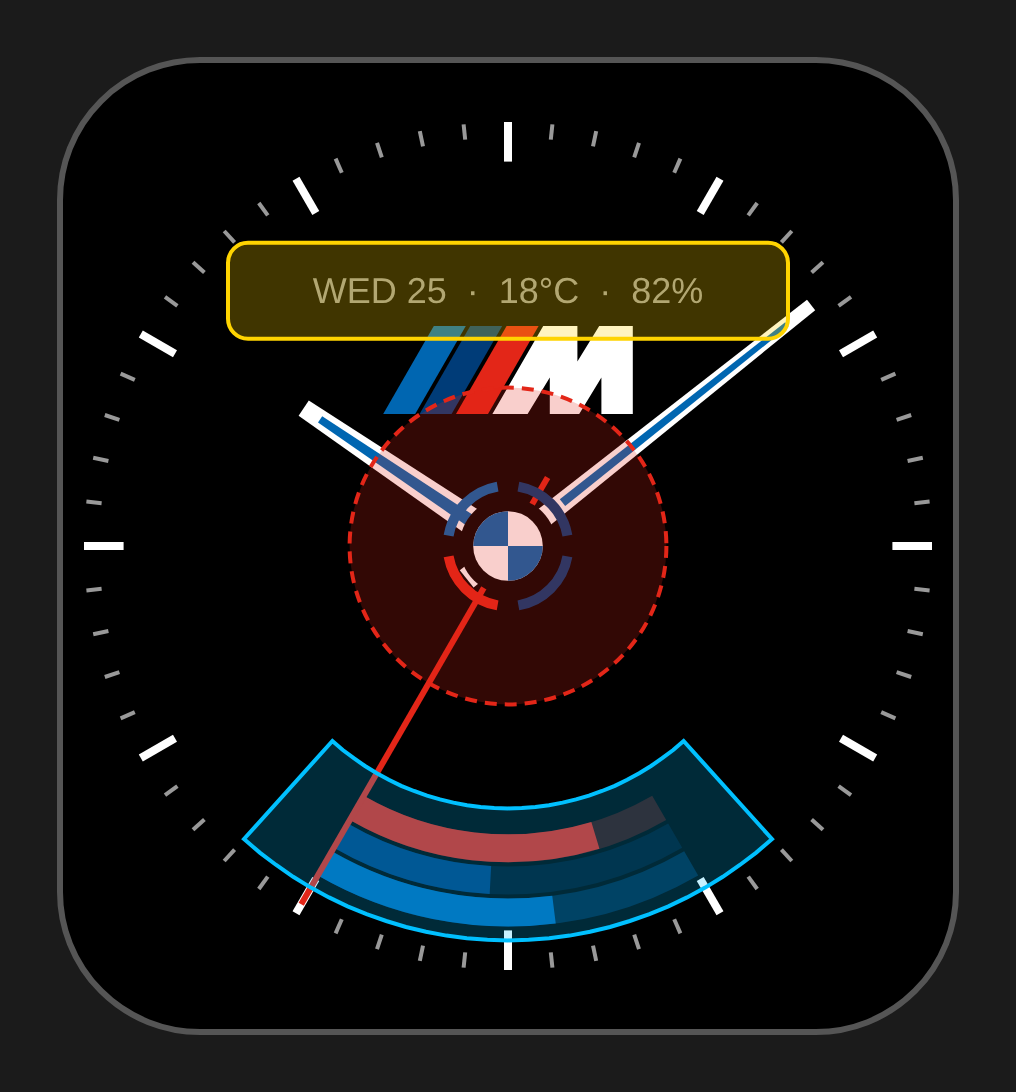
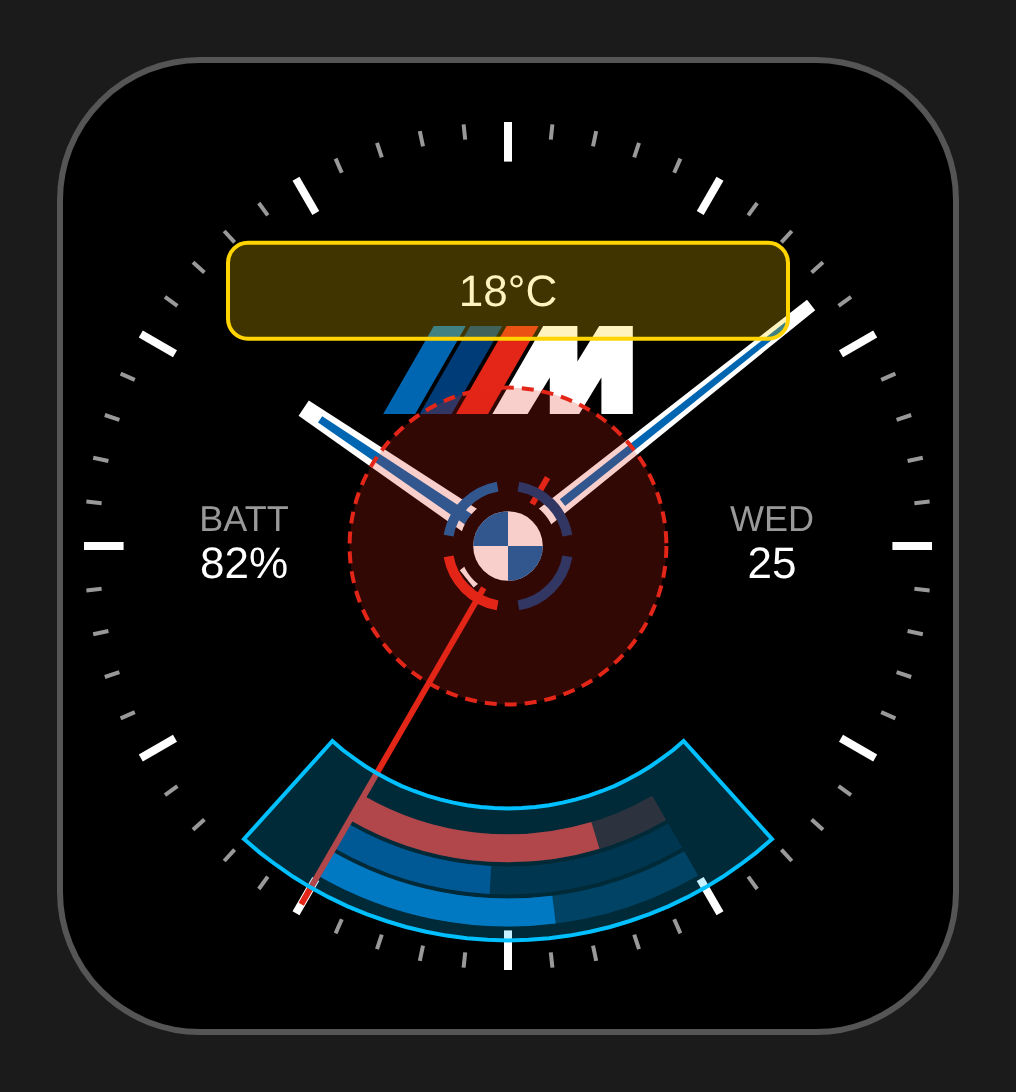
Date window at 3 o'clock, watch battery window at 9 o'clock
Replace the one-line info row with two dial windows, each a small grey label over a
white value: the date (weekday over day number) at 3 o'clock and the watch battery
(labelled BATT, so it is not mistaken for body battery) at 9 o'clock. The temperature
stays alone above the badge and remains the weather tap target. Positions are a Theme
token (DIAL_SIDE_X); the wireframe tool and README follow.

Claude-Session: https://claude.ai/code/session_01CEiR5mX4CwQUtKoZKTxSUA

diff --git a/tools/wireframes.py b/tools/wireframes.py
@@ -60,6 +60,7 @@ Y_ROWS, Y_WEATHER_ROWS = num("Y_ROWS"), num("Y_WEATHER_ROWS")
 CHART_X, CHART_TOP, CHART_BOTTOM = num("CHART_X"), num("CHART_TOP"), num("CHART_BOTTOM")
 Y_XLABELS, Y_STATS, Y_DOTS, DOT_R = num("Y_XLABELS"), num("Y_STATS"), num("Y_DOTS"), num("DOT_R")
 Y_CAPTION = num("Y_CAPTION")
+DIAL_SIDE_X, WINDOW_LABEL_DY, WINDOW_VALUE_DY = num("DIAL_SIDE_X"), num("WINDOW_LABEL_DY"), num("WINDOW_VALUE_DY")
 STRIPE_X0, STRIPE_PITCH, STRIPE_W = num("STRIPE_X0"), num("STRIPE_PITCH"), num("STRIPE_W")
 STRIPE_SLANT, STRIPE_HALF_H = num("STRIPE_SLANT"), num("STRIPE_HALF_H")
 NAV_CHEVRON_X, CHEVRON_HALF_W, CHEVRON_HALF_H, DOT_PITCH = (num("NAV_CHEVRON_X"), num("CHEVRON_HALF_W"),
@@ -198,7 +199,10 @@ def dial(zones=False):
         s.line(pt(inner, 90 - i * 6), pt(outer, 90 - i * 6),
                WHITE if major else GREY, 4 if major else 2)
     draw_badge(s, CY - R * .4)
-    s.text(CX, CY - R * .58, "WED 25 &#160;&#183;&#160; 18&#176;C &#160;&#183;&#160; 82%", "label", GREY)
+    s.text(CX, CY - R * .58, "18&#176;C", "value", WHITE)                       # the weather tap target
+    for sx, label, value in [(CX + R * DIAL_SIDE_X, "WED", "25"), (CX - R * DIAL_SIDE_X, "BATT", "82%")]:
+        s.text(sx, CY + WINDOW_LABEL_DY, label, "label", GREY)
+        s.text(sx, CY + WINDOW_VALUE_DY, value, "value", WHITE)
     draw_hand(s, (10 + 8 / 60) * 30, R * .56, R * .07, R * .1)
     draw_hand(s, (8 + 35 / 60) * 6, R * .88, R * .05, R * .12)
     a = math.radians(35 * 6)

diff --git a/README.md b/README.md
@@ -31,12 +31,13 @@ simulator screenshots. They are generated from `source/Theme.mc` by
 - M badge at 12 o'clock, drawn from the flat M logo's geometry.
 - Three activity rings inside the lower dial, in the badge colours:
   steps (blue), weekly active minutes (navy) and body battery (red).
-- Top row with date, current temperature and watch battery.
+- Date window at 3 o'clock and watch battery window (BATT) at 9 o'clock; the current
+  temperature sits alone above the badge.
 - Tap pages. Tap a zone on the dial to open a full-screen page:
   - ring band: the **Activity** page, with steps, active minutes and body battery
     as rows. Tap a row to open that metric's page.
   - roundel: heart rate (resting, today's low and high)
-  - top row: weather (conditions, feels-like, high/low, rain chance, wind,
+  - the temperature above the badge: weather (conditions, feels-like, high/low, rain chance, wind,
     humidity, next four hours)
 - Recovery on the Body Battery pages: its detail page also shows stress (current score
   and band: resting, low, medium, high) and sleep score. Behind it are four pages in
